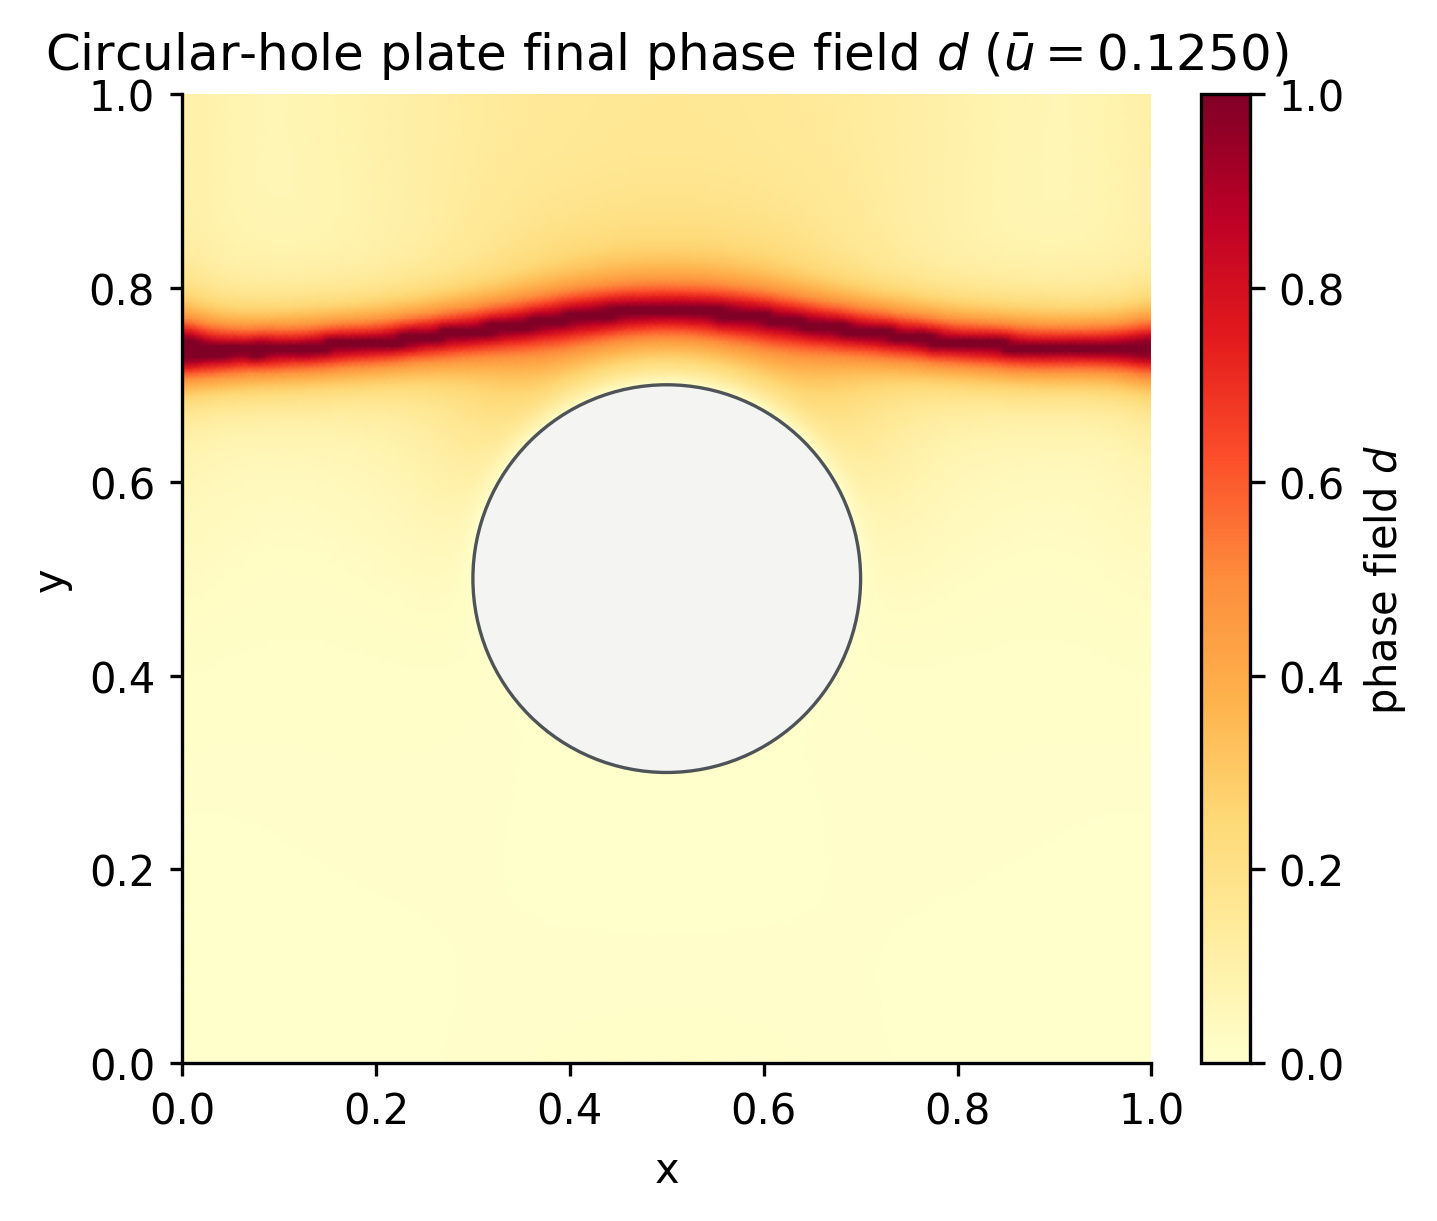
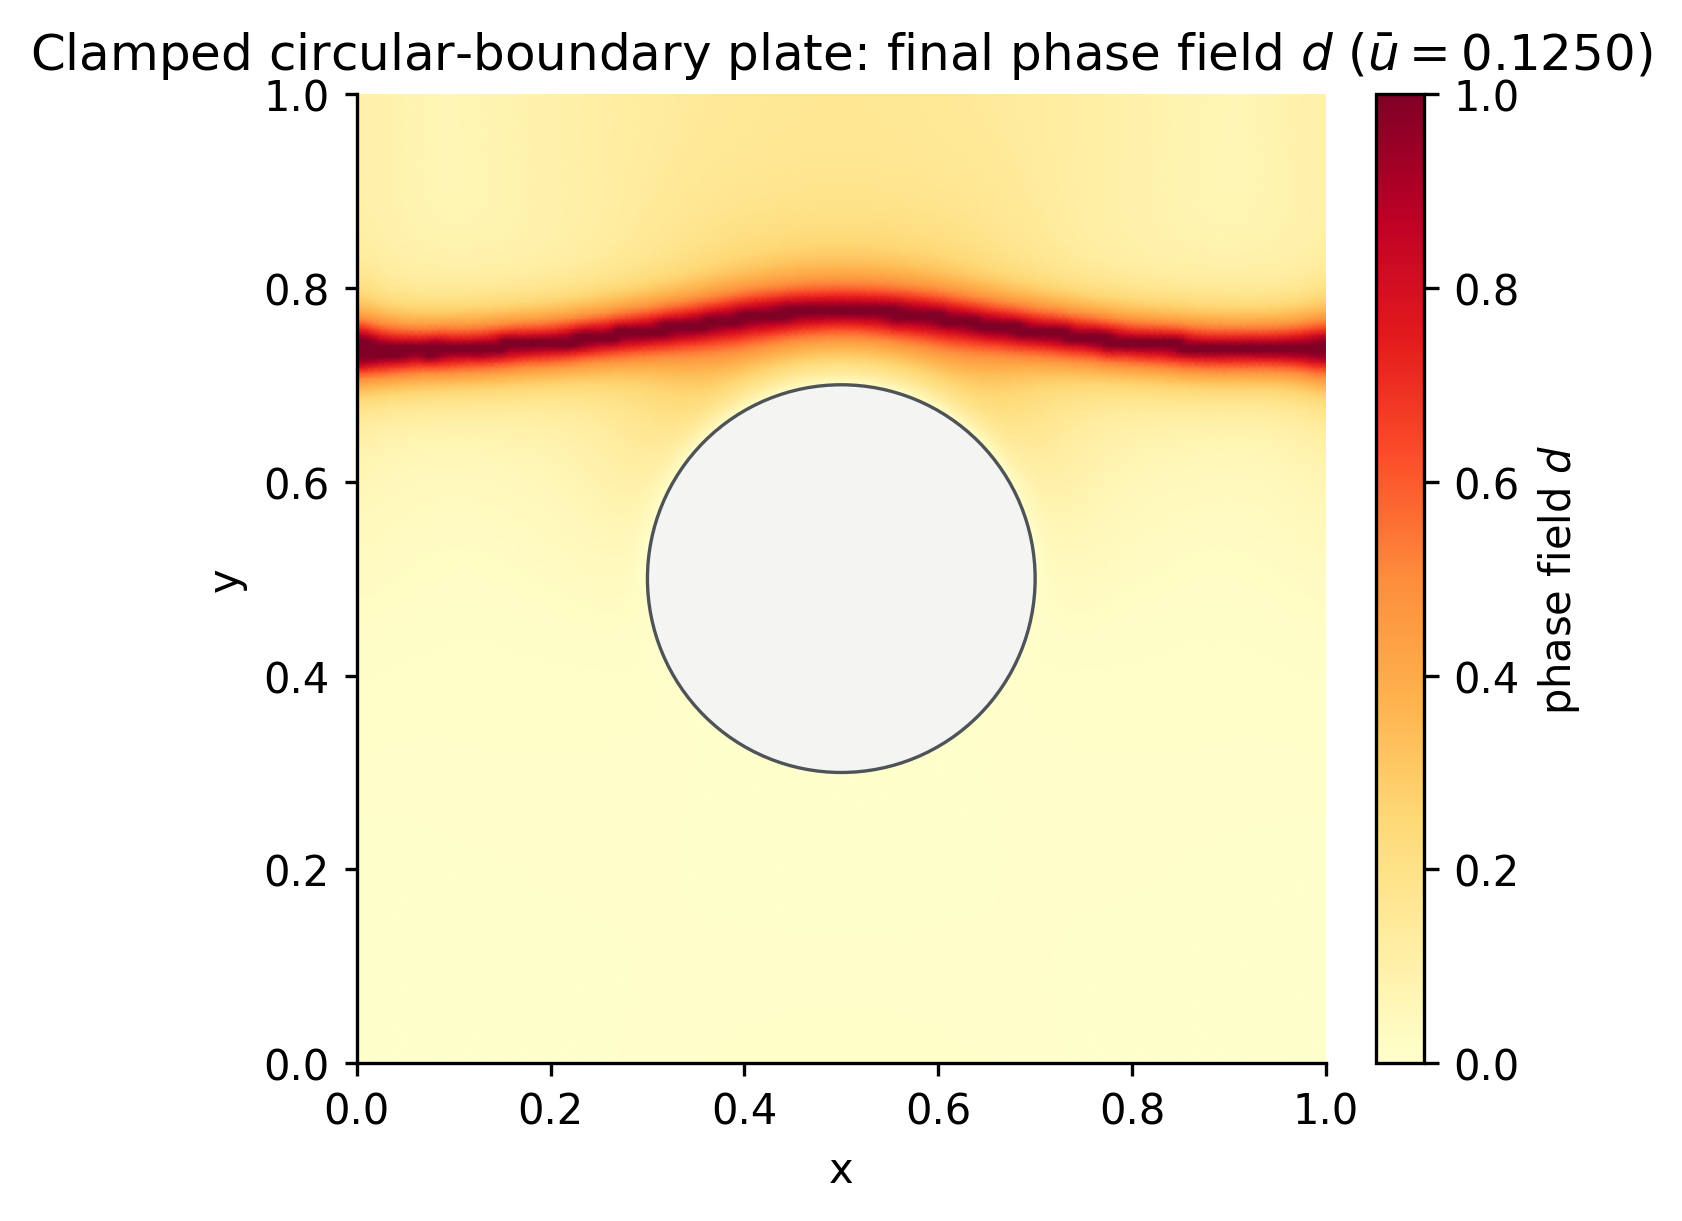
Refresh paper benchmark figure assets

diff --git a/scripts/paper_huzhang/plot_model0_residual_force_phase.py b/scripts/paper_huzhang/plot_model0_residual_force_phase.py
@@ -1,5 +1,5 @@
 #!/usr/bin/env python3
-"""Plot the audited Model-0 response and final phase field.
+"""Plot the audited clamped circular-boundary response and phase field.
 
 The figures use the geometry, material, boundary conditions, and report loads
 defined by ``model0_example.py``.  The input data are obtained on a
@@ -183,7 +183,10 @@ def _save_phase_figure(
     axis.set_ylim(0.0, 1.0)
     axis.set_xlabel("x")
     axis.set_ylabel("y")
-    axis.set_title(rf"Circular-hole plate final phase field $d$ ($\bar u={load:.4f}$)")
+    axis.set_title(
+        rf"Clamped circular-boundary plate: final phase field $d$ "
+        rf"($\bar u={load:.4f}$)"
+    )
     axis.tick_params(direction="out", length=3.0, width=0.8)
     axis.spines[["top", "right"]].set_visible(False)
     colorbar = figure.colorbar(field, ax=axis, fraction=0.046, pad=0.04)
@@ -226,7 +229,7 @@ def _parse_args() -> argparse.Namespace:
 
 
 def main() -> None:
-    """Generate Model-0 force and final phase-field figures."""
+    """Generate clamped circular-boundary force and phase-field figures."""
     args = _parse_args()
     force_png, phase_png = plot_model0(args.input_dir.resolve(), args.output_dir.resolve())
     print(f"[{SCRIPT_VERSION}] wrote {force_png}")

diff --git a/scripts/paper_solver/plot_resolved_localization_map.py b/scripts/paper_solver/plot_resolved_localization_map.py
@@ -3,7 +3,7 @@
 
 Purpose
 -------
-Create a three-panel comparison at the resolved circular-hole checkpoint
+Create a three-panel comparison at the resolved clamped circular-boundary checkpoint
 ``bar_u=0.0898``.  The panels use the same finite-element mesh and show the
 dominant coupled slow-mode cell energy, the phase field, and the phase-field
 gradient magnitude.
@@ -260,7 +260,8 @@ def make_figure(checkpoint: Path, output_pdf: Path) -> Path:
         )
         figure.colorbar(artist, ax=axis, fraction=0.046, pad=0.02)
     figure.suptitle(
-        r"Resolved circular-hole checkpoint, $\bar u=0.0898$; fields normalized independently",
+        r"Resolved clamped circular-boundary checkpoint, $\bar u=0.0898$; "
+        r"fields normalized independently",
         fontsize=10,
     )
     for extension in ("pdf", "png"):
